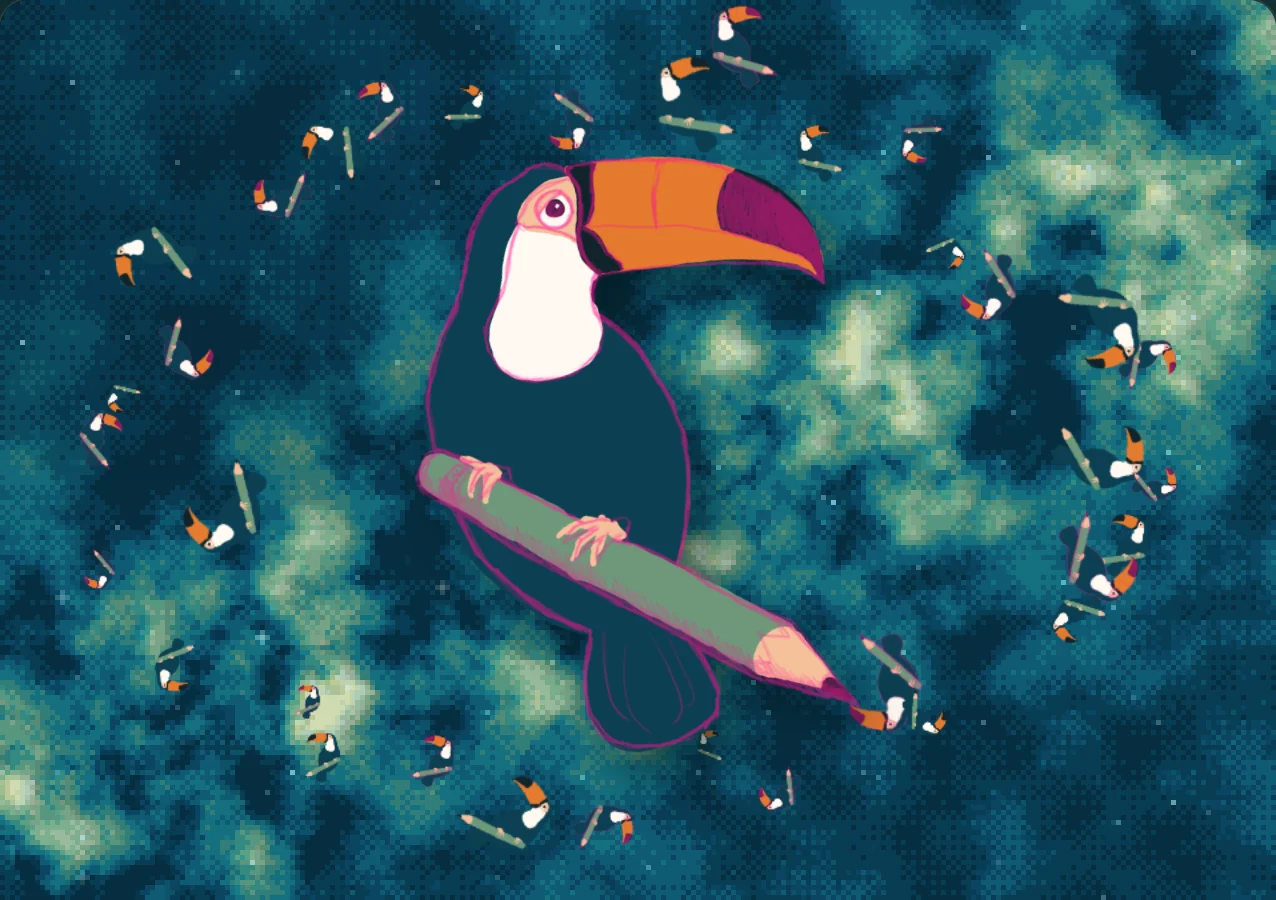
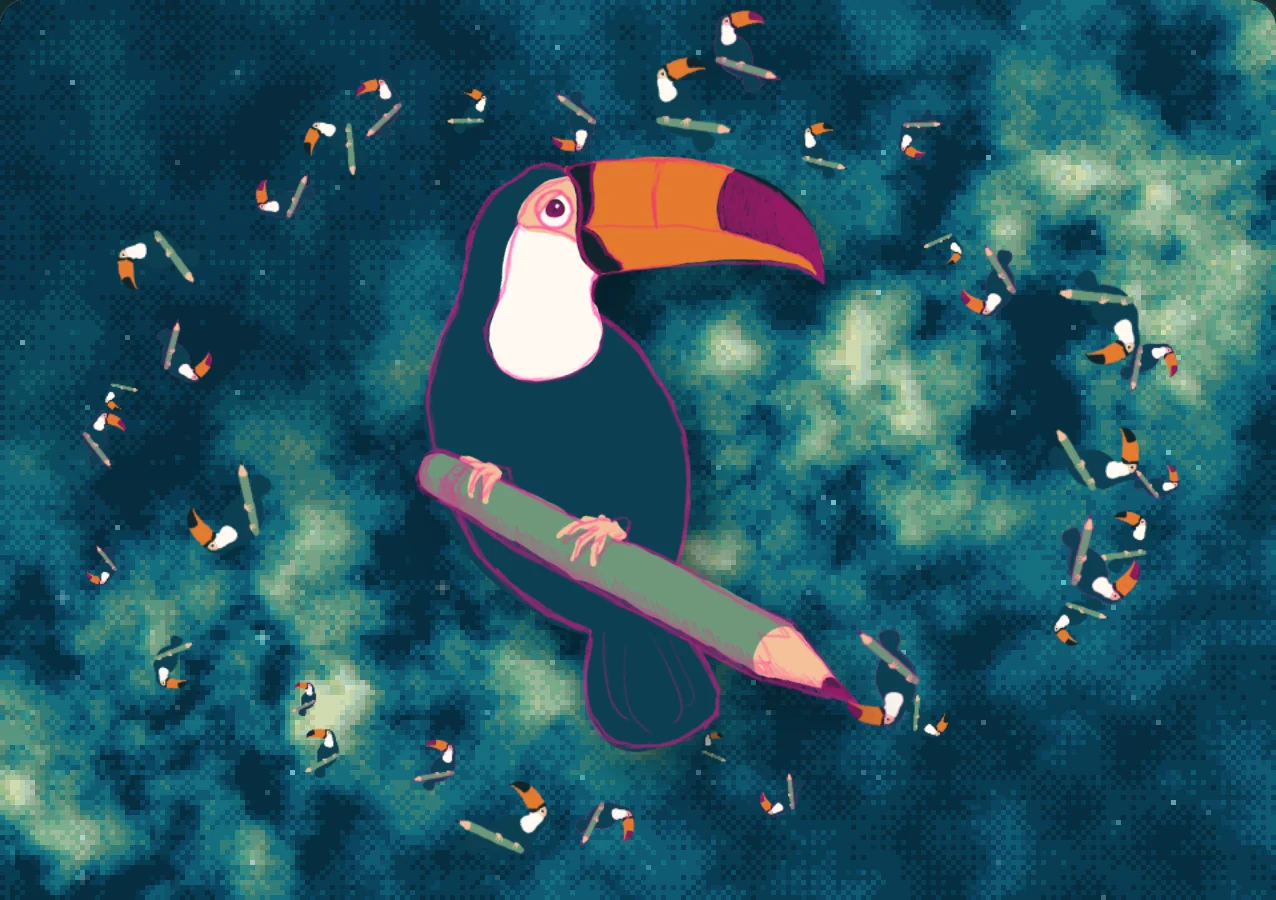
Piano no longer flickers on arrival: wait for the live sky, phone-sized stand-ins
The sky reported ready once its still fallback was drawn, while the live
WebGL sky stayed hidden until its noise texture loaded. In Firefox and on
phones that showed stand-in, then still sky, then live sky. It now reports
ready only when the live sky shows (or straight away without WebGL). Phones
get their own football and piano captures, so the toucan keeps its size.

diff --git a/project-showcase.js b/project-showcase.js
@@ -1,18 +1,18 @@
 import { createDrinkSpin, renderDrinkInfo, prefetchDrink } from './drink-spin.js?v=20261029-condensation-1';
-import { initHeroSky } from './hero-sky.js?v=20261029-maple-16-bars-1';
+import { initHeroSky } from './hero-sky.js?v=20261030-live-sky-1';
 import { SKY_PRESETS } from './hero-sky-shaders.js?v=20261017-ripple-1';
 import { dartyMatchURL } from './darty-match.js?v=20261029-darty-title-4';
 
 // One media cell for the opening and Projects. Copy stays in HTML for no-JS/print.
 export const projects = [
-  { id: 'football', name: 'Sports journalism', poster: 'assets/projects/football-home.webp?v=20261029-match-1', sectionPoster: 'assets/projects/football-section.webp?v=20261029-match-1', alt: 'A football newspaper front page with analysis pieces', type: 'newspaper', src: 'projects/football-journalism/' },
+  { id: 'football', name: 'Sports journalism', poster: 'assets/projects/football-home{size}.webp?v=20261030-phone-1', sectionPoster: 'assets/projects/football-section{size}.webp?v=20261030-phone-1', alt: 'A football newspaper front page with analysis pieces', type: 'newspaper', src: 'projects/football-journalism/' },
   { id: 'darty', name: 'DARTY', poster: 'assets/projects/darty-still-01.webp?v=20261029-darty-title-5', titleStill: 'assets/projects/darty-still-07.webp?v=20261029-darty-title-5', alt: 'DARTY night football match with stylised players on a green pitch', type: 'match' },
   { id: 'drinks', name: 'Drink design', poster: 'assets/projects/drinks/skids/poster.webp?v=20261029-condensation-1', alt: 'Skids drink design', type: 'drinks', drinks: [
     { id: 'skids', name: 'Skids', lines: ["When you're in a rush, have some Skids."] },
     { id: 'fizzy', name: 'Fizzy', lines: ['Light, bright red. Fizzy Extreme.'] },
     { id: 'ground-pinch', name: 'Ground Pinch', lines: ['It’s sweet, fast, cheap, and will help you destroy your enemies.'] },
   ] },
-  { id: 'piano', name: 'Piano', poster: 'assets/projects/toucan-piano-home-{sky}.webp?v=20261029-match-1', sectionPoster: 'assets/projects/toucan-piano-section-{sky}.webp?v=20261029-match-1', alt: 'Toucan piano and pixel sky', type: 'piano' },
+  { id: 'piano', name: 'Piano', poster: 'assets/projects/toucan-piano-home{size}-{sky}.webp?v=20261030-phone-1', sectionPoster: 'assets/projects/toucan-piano-section{size}-{sky}.webp?v=20261030-phone-1', alt: 'Toucan piano and pixel sky', type: 'piano' },
 ];
 
 // Only the children's manual carousel includes the text-led introduction.
@@ -133,6 +133,8 @@ export function initShowcase(root) {
   const slides = [...root.querySelectorAll('[data-project-slide]')];
   const motion = matchMedia('(prefers-reduced-motion: reduce)');
   const compactDevice = matchMedia('(max-width: 767px), (pointer: coarse) and (hover: none)');
+  // Phone cells are near-square, so the football and piano posters have phone captures.
+  const phoneCell = matchMedia('(max-width: 767px)');
   const requested = new URLSearchParams(location.search).get('project');
   let index = automatic ? initialProject(requested) : Math.max(0, entries.findIndex(project => project.id === requested));
   // The homepage counts from wherever it opened, so its first project reads "1 of 4".
@@ -157,7 +159,8 @@ export function initShowcase(root) {
   const warmPreview = (project, img) => {
     // Football and piano posters are captures of each carousel's live view
     // (scripts/capture-showcase-posters.mjs), so the cross-fade is invisible.
-    const poster = ((!automatic && project.sectionPoster) || project.poster).replace('{sky}', pianoSky);
+    const poster = ((!automatic && project.sectionPoster) || project.poster).replace('{sky}', pianoSky)
+      .replace('{size}', phoneCell.matches ? '-phone' : '');
     img.src = project.titleStill || poster;
     const decoded = img.decode();
     previewDecodes.set(img, decoded);
@@ -541,6 +544,7 @@ export function initShowcase(root) {
     timer.reset();
     sync();
   });
+  phoneCell.addEventListener('change', () => entries.filter(project => project.poster?.includes('{size}')).forEach(project => warmPreview(project, preview(project))));
   compactDevice.addEventListener('change', () => {
     if (entries[index].type !== 'match') return;
     if (stage.contains(document.activeElement)) root.focus({ preventScroll: true });

diff --git a/index.html b/index.html
@@ -23,7 +23,7 @@
   <link rel="preload" as="image" href="assets/galaxy-noise.png" />
   <link rel="preload" as="image" href="assets/toucan-logo-flat.png" />
   <link rel="stylesheet" href="project-showcase.css?v=20261029-darty-phone-3" />
-  <script src="project-showcase.js?v=20261029-maple-16-bars-1" type="module"></script>
+  <script src="project-showcase.js?v=20261030-live-sky-1" type="module"></script>
   <script src="menu.js?v=20261029-clean-url-2" defer></script>
   <script src="team-carousel.js?v=20261029-clean-url-2" defer></script>
 </head>

diff --git a/hero-sky.js b/hero-sky.js
@@ -285,8 +285,8 @@ function draw() {
   pixelRipples.expire(time);
   renderer?.draw(time);
   drawFlock();
-  // Showcase readiness only: report a fully sized draw with the sky image ready.
-  if (!firstFrame && sized && fallbackImage.complete && fallbackImage.naturalWidth) {
+  // Showcase readiness only: report a fully sized draw once the live sky (not its still fallback) shows.
+  if (!firstFrame && sized && fallbackImage.complete && fallbackImage.naturalWidth && (!renderer || !sky.hidden)) {
     firstFrame = true;
     onFirstFrame?.();
   }

diff --git a/children.html b/children.html
@@ -27,7 +27,7 @@
   <script src="back-page-frame.js?v=20261028-shared-layout-2" defer></script>
   <link rel="stylesheet" href="hero.css?v=20261028-green-now-1" />
   <link rel="stylesheet" href="project-showcase.css?v=20261029-darty-phone-3" />
-  <script src="project-showcase.js?v=20261029-maple-16-bars-1" type="module"></script>
+  <script src="project-showcase.js?v=20261030-live-sky-1" type="module"></script>
 </head>
 <body class="cell-art-page campaign-page children-page">
   <a class="skip-link" href="#main">Skip to main content</a>
